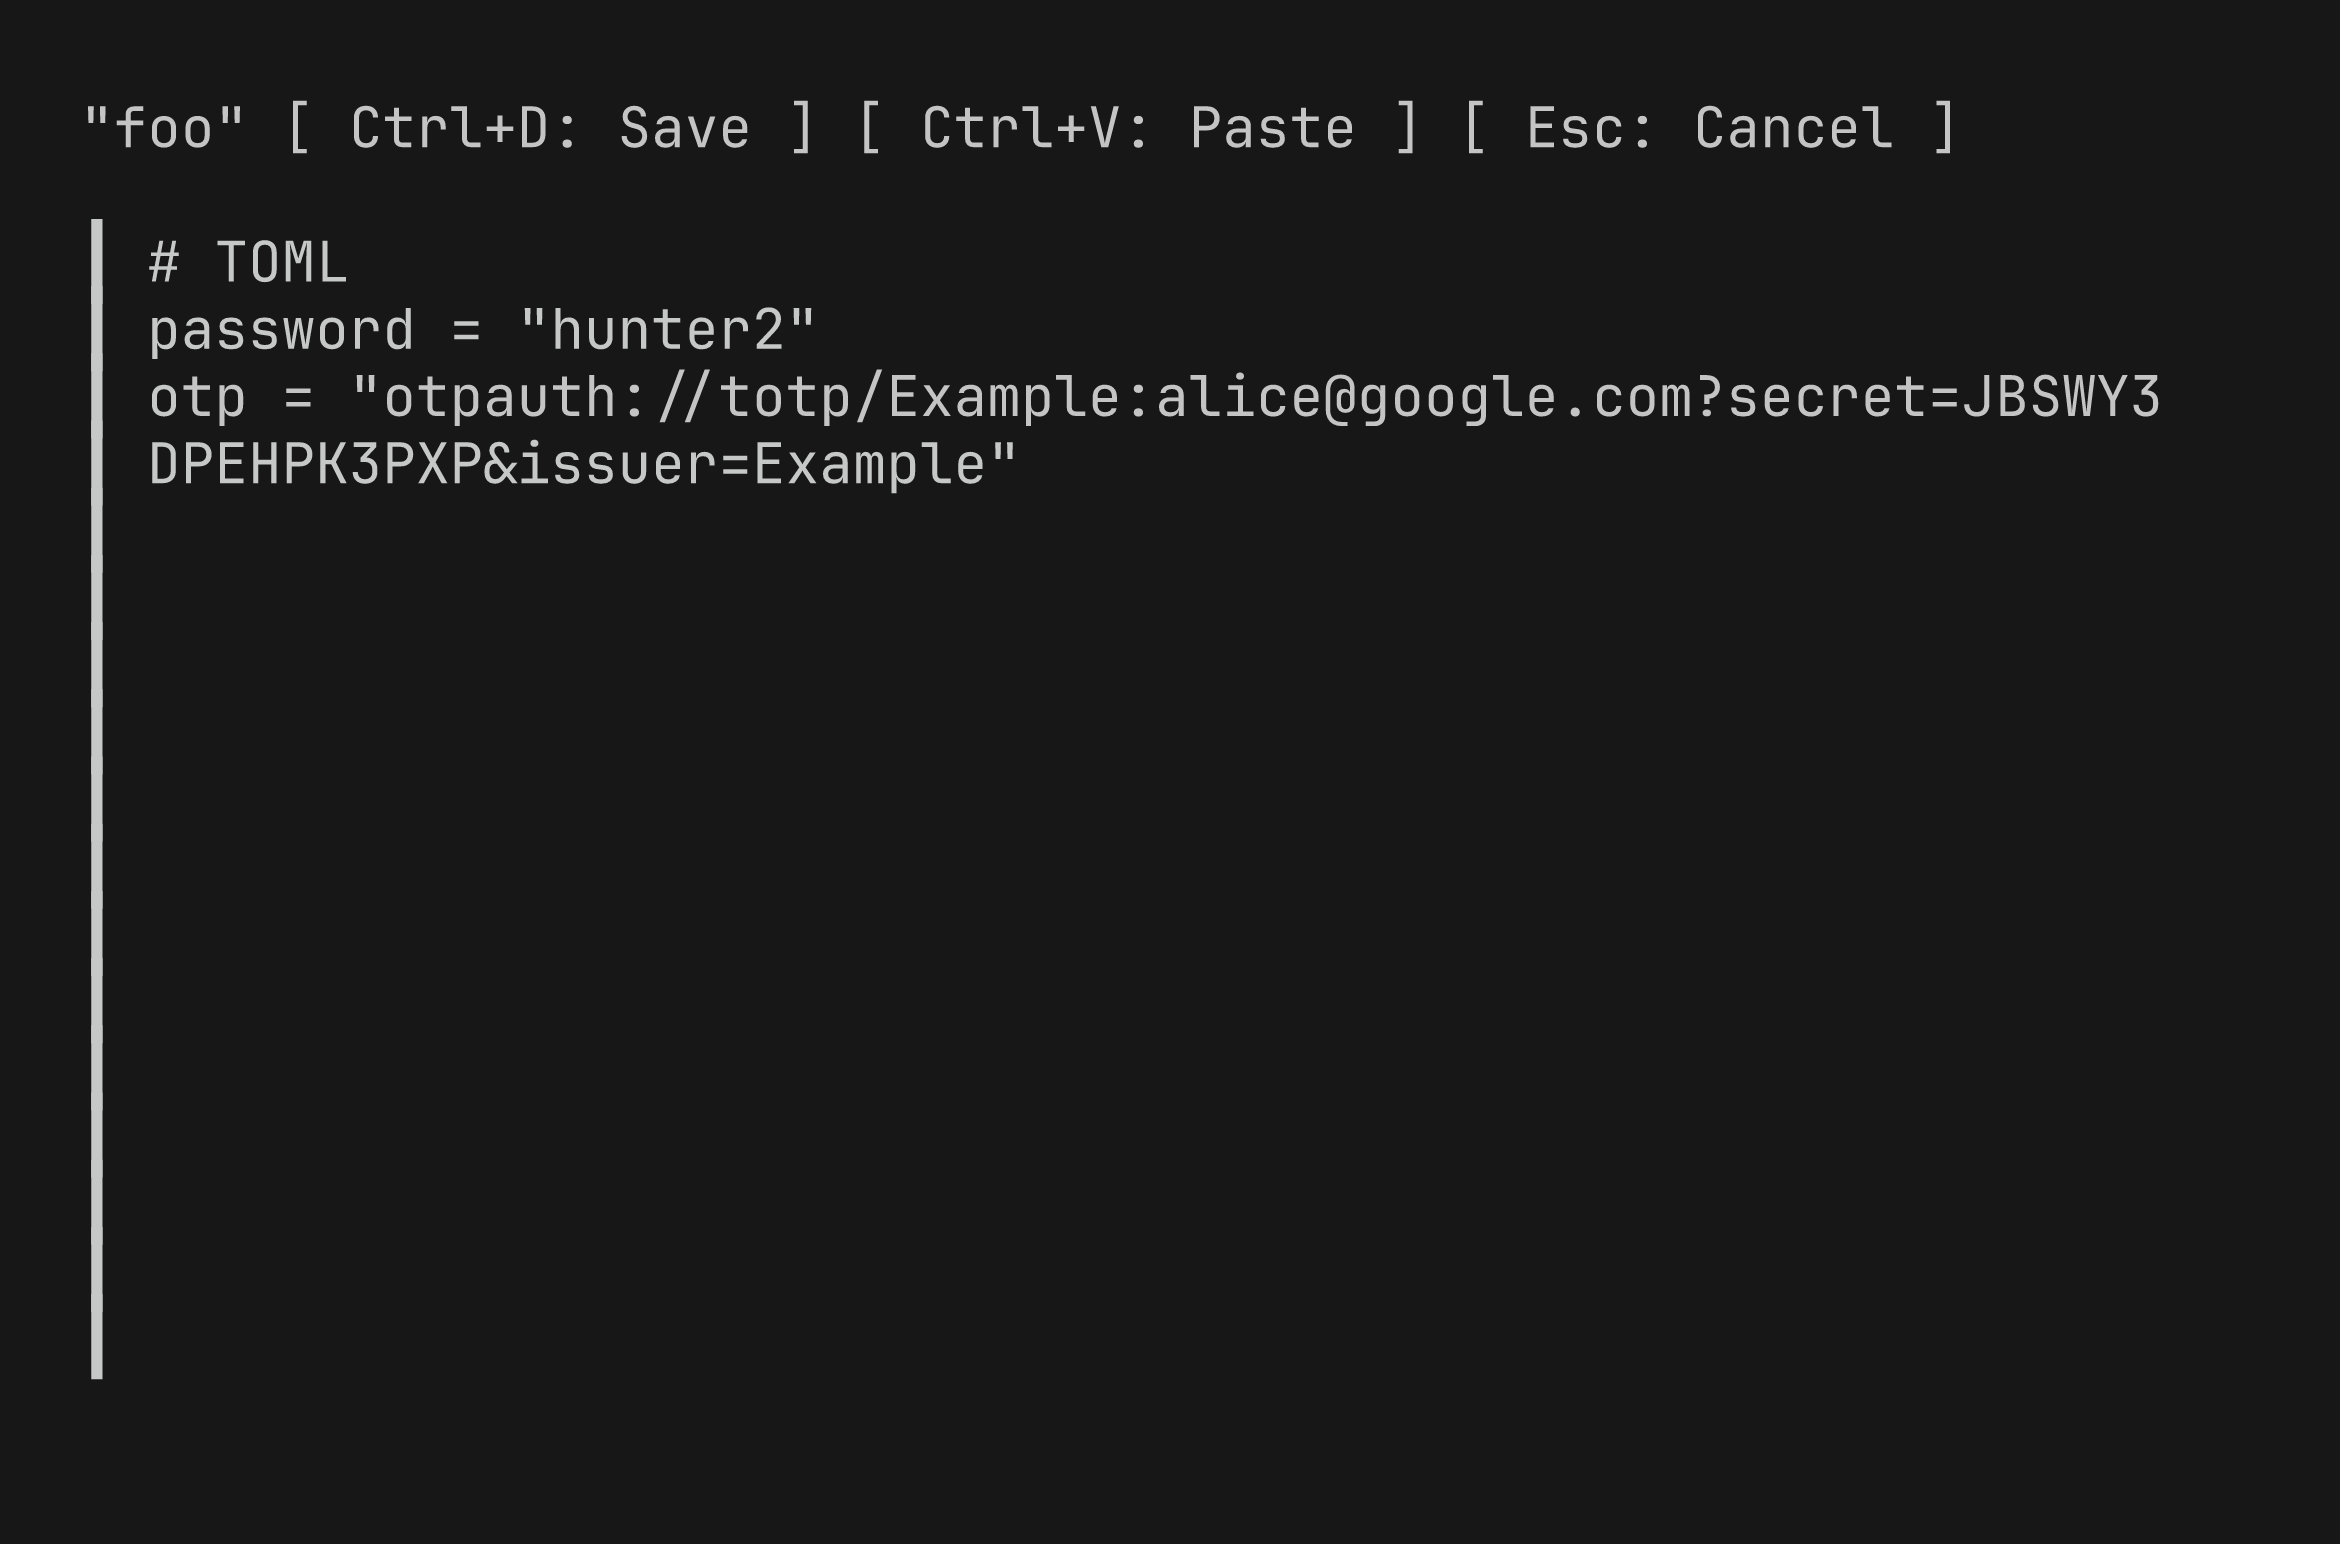
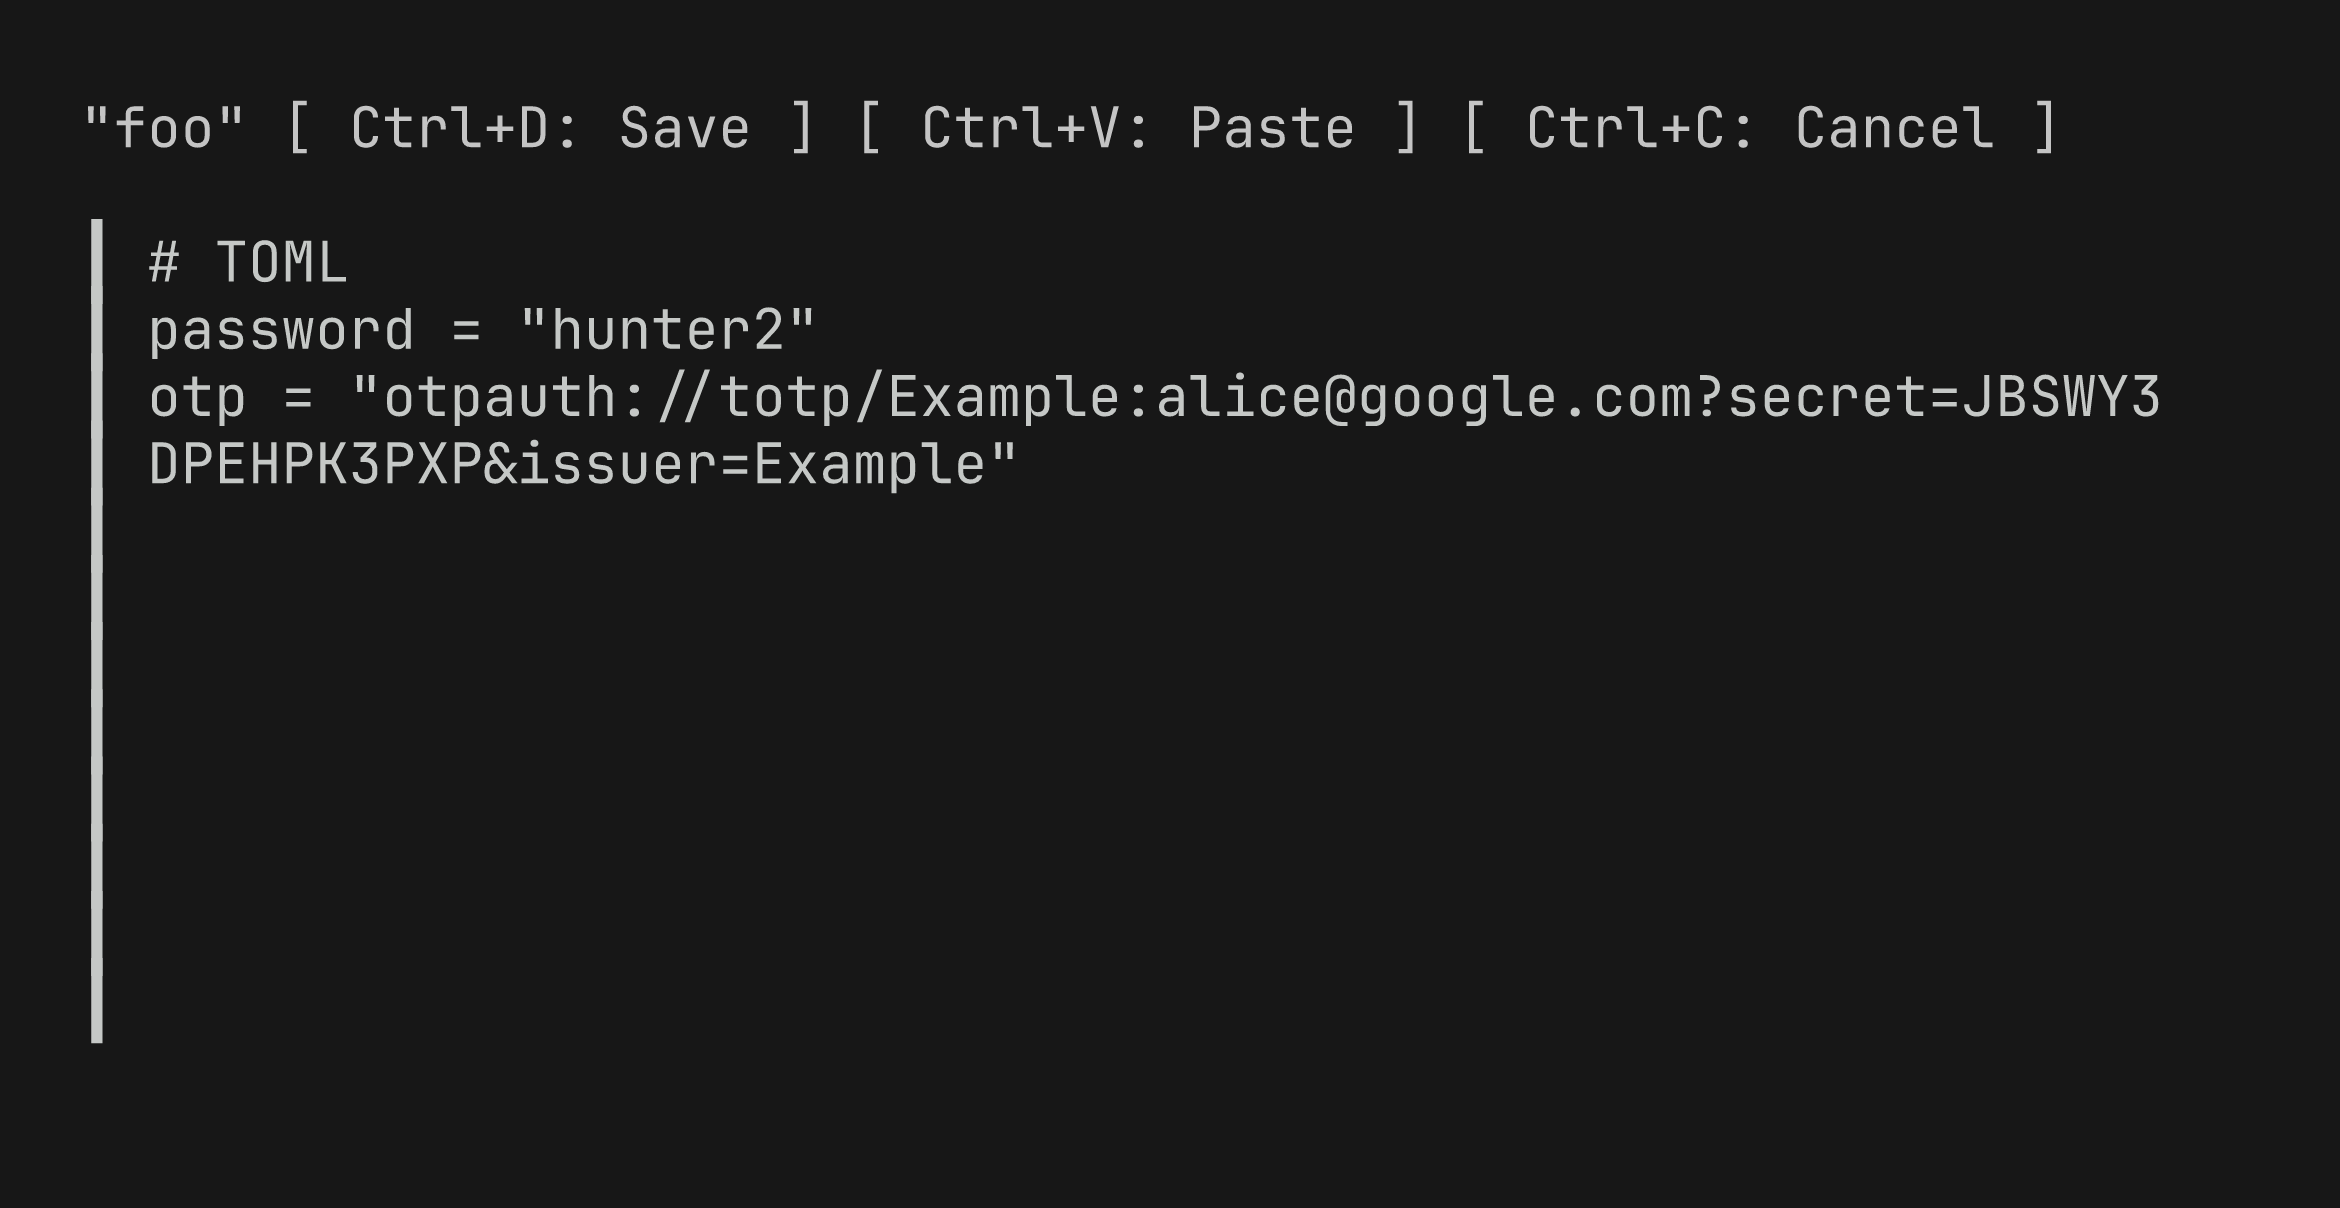
feat(editor): do not exit on Esc
It is not common for TUI text editors to exit
when the user presses the Escape key once.
Emacs, nano, and Vim don't do it.
Muscle memory can lead the user to press Escape and exit accidentally.

diff --git a/editor/editor.go b/editor/editor.go
@@ -25,8 +25,8 @@ type editor struct {
 type cancelError struct{}
 
 const (
-	bannerNoSave    = "[ Ctrl+V: Paste ] [ Esc: Cancel ]"
-	bannerSave      = "[ Ctrl+D: Save ] [ Ctrl+V: Paste ] [ Esc: Cancel ]"
+	bannerNoSave    = "[ Ctrl+V: Paste ] [ Ctrl+C: Cancel ]"
+	bannerSave      = "[ Ctrl+D: Save ] [ Ctrl+V: Paste ] [ Ctrl+C: Cancel ]"
 	editorCharLimit = 1 << 16
 )
 
@@ -48,7 +48,7 @@ func (e editor) Update(msg tea.Msg) (tea.Model, tea.Cmd) {
 	case tea.KeyMsg:
 		switch msg.Type {
 
-		case tea.KeyEsc, tea.KeyCtrlC:
+		case tea.KeyCtrlC:
 			e.err = CancelError
 			return e, tea.Quit
 

diff --git a/README.md b/README.md
@@ -458,12 +458,12 @@ cap_mkdb /etc/login.conf
 ![Screenshot of the editor in a terminal showing a TOML entry.
 The TOML entry has a password "hunter2" and a test TOTP URL.](editor.png)
 
-The editor includes the following key bindings.
+The editor has the following key bindings:
 
 #### Session
 
+- **Ctrl+C**: Exit without saving
 - **Ctrl+D**: Save and exit
-- **Esc**/**Ctrl+C**: Exit without saving
 
 #### Navigation
 
